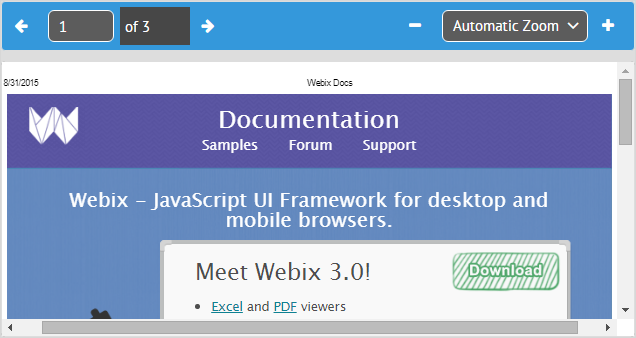
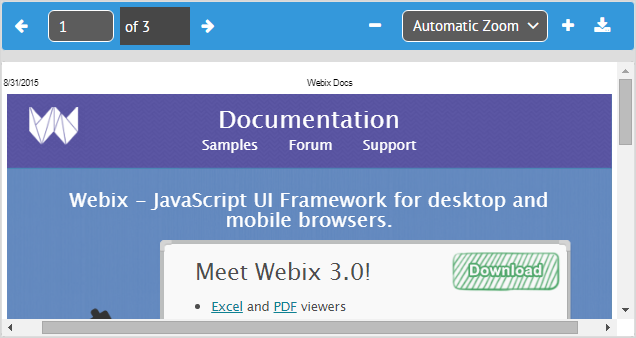
[update] whats new, binary proxy, excel datatype

Changed region(s): [[0.6274, 0.0296, 0.9858, 0.1479], [0.5676, 0.0592, 0.5975, 0.0888]]

diff --git a/data/desktop/excelviewer.md b/data/desktop/excelviewer.md
@@ -14,7 +14,7 @@ The constructor of the viewer is the following:
 	view:"excelviewer", 
     toolbar:"toolbar", 
     excelHeader:true, 
-    url:"files/data.xlsx"
+    url:"binary->files/data.xlsx"
 }
 ~~~
 
@@ -24,6 +24,9 @@ The configuration properties are:
 - **excelHeader** - (boolean) true to use the first row of the Excel table as a column header;
 - **url** - (string) the url of the excel file that should be displayed.
 
+**Binary** [proxy](desktop/server_proxy.md) is used for loading the file, which allows to get its contents as ArrayBuffer. 
+
+The default [datatype](desktop/data_types.md) for Excel Viewer is **excel**. It is strongly recommended not to change it manually to avoid parsing inconsistency.
 
 Excel viewer API
 -----------------
@@ -36,11 +39,34 @@ loads an excel file to the viewer
 parameters:
 
 - file - (string) the name of the file to load
+- datatype - (string)	data type (should be "excel" here)
 
 ~~~js
-$$("viewer").load("data.xlsx");
+$$("viewer").load("binary->data.xlsx", "excel");
 ~~~
 
+####parse()
+
+parses file data to the viewer
+
+parameters:
+
+- file -	(object) 	uploaded file object
+- datatype -	(string)	data type (should be "excel" here)
+
+~~~js
+ { view:"uploader", value:"Select Excel File", width:200,
+    on:{
+      onBeforeFileAdd:function(upload){
+         $$("excel").clearAll();
+         $$("excel").parse(upload.file, "excel");
+           return false;
+      }
+ 	}
+}
+~~~
+
+{{sample 60_pro/10_viewers/03_excel_upload.html }}
 
 ####showSheet()
 
@@ -51,10 +77,8 @@ parameters:
 - name - (string) the name of the sheet
 
 ~~~js
-$$("viewer").load("data.xlsx");
+$$("viewer").showSheet("Data");
 ~~~
-
-
 
 Excel toolbar and its API
 ----------------
@@ -72,7 +96,6 @@ In order to render such a toolbar, the dedicated **excelbar** view should be ini
 - **id** (string) - the id of the Excel toolbar.
 
 ###Excel toolbar API
-
 
 ####getInput() 
 
@@ -125,35 +148,54 @@ $$("toolbar").setValue(value);
 ~~~
 
 
-
 ##Loading data to Excel Viewer
 
-There are two possible ways of loading data to Excel viewer:
+There are three possible ways of loading data to Excel viewer:
 
-- directly in the viewer constructor by using the **url** parameter:
+- specifying the needed file directly in the viewer constructor by using the **url** parameter:
 
 ~~~js
 {
 	view:"excelviewer", 
-    url:"files/data.xlsx"
+    url:"binary->files/data.xlsx"
 }
 ~~~
 
-- using the **load** method with the viewer's id as a parameter
+- calling the **load** method with the file name as a parameter
 
 ~~~js
 { view:"excelviewer", id:"excel", editable:true, header:false },
 ...
-$$("excel").load(upload.file);
+$$("excel").load("binary->files/data.xlsx", "excel");
 ~~~
 
-{{sample 60_pro/10_viewers/03_excel_upload.html}}
+{{sample 60_pro/10_viewers/02_excel_viewer.html }}
 
+**Binary** [proxy](desktop/server_proxy.md) is used for loading the file, which allows to get its contents as ArrayBuffer.
+The datatype is "excel".
+
+- parsing uploaded file data with the help of **parse** method
+
+~~~js
+ { view:"uploader", value:"Select Excel File", width:200,
+    on:{
+      onBeforeFileAdd:function(upload){
+         $$("excel").clearAll();
+         $$("excel").parse(upload.file, "excel");
+           return false;
+      }
+ 	}
+}
+~~~
+
+{{sample 60_pro/10_viewers/03_excel_upload.html }}
+~~~
 
 ##Loading via the "excel" proxy object
 
-Excelviewer allows displaying Excel data in a datatable only. At the same time by means of using the "excel" [proxy object](desktop/server_proxy.md), 
-you can load data to any Webix data component ([list](desktop/list.md), [dataview](desktop/dataview.md), [chart](desktop/chart.md), etc). 
+Excelviewer allows displaying Excel data in a datatable only.  
+At the same time, you can load Excel files to any Webix data component ([list](desktop/list.md), [dataview](desktop/dataview.md), [chart](desktop/chart.md), etc)
+by using "binary" [proxy object](desktop/server_proxy.md) and specifying "excel" datatype. 
 
 This variant of loading allows customizing the presentation of the loaded data, such as displaying headers and controlling the number of the loaded rows.
 
@@ -161,20 +203,20 @@ This variant of loading allows customizing the presentation of the loaded data, 
 webix.ui({
   type:"space",
   cols:[
-  	{ view:"list", url:"excel->files/data.xlsx@Data[1-10]", width:320,
-    	template:"#data1#, #data2#", select:true },
-    { view:"datatable", autoConfig:true, url:"excel->files/data.xlsx@Files[1-]" }
+  	{ view:"list", url:"binary->files/data.xlsx@Data[1-10]", datatype:"excel",
+    	template:"#data1#, #data2#" },
+    { view:"datatable", autoConfig:true, url:"binary->files/data.xlsx@Files[1-]", datatype:"excel" }
   ]
 });
 ~~~
 
 The string value of the *url* property *excel->files/data.xlsx@Data[1-10]"* includes the following parts:
 
-- **excel** - the name of the proxy object
-- **files/data.xlsx** - link to the excel file
-- **@** - the delimiter that detaches the link from its parameters (can be omitted together with parameters)
-- **Data** - the name of the Excel sheet to render
-- **[1-10]** - the rows that should be rendered in the viewer
+- **binary** - the name of the proxy object
+- **files/data.xlsx** - path to the Excel file
+- **@** - optional, the delimiter that detaches the link from its parameters (can be omitted together with parameters)
+- **Data** - optional, the name of the Excel sheet to render
+- **[1-10]** - optional, the rows that should be rendered in the viewer
 
 To get more information about proxy objects read the desktop/server_proxy.md article.
 

diff --git a/data/desktop/pdfviewer.md b/data/desktop/pdfviewer.md
@@ -33,6 +33,17 @@ Configuration parameters are:
 	- **toolbar** (string) - the id of the related pdf toolbar;
 	- **url** (string) - the url of the pdf file to browse in the viewer.
     
+####Pdfbar structure    
+    
+Toolbar is supplied with the following fully functional controls: 
+
+- navigarion arrows (previous and next page);
+- current page label;
+- "all pages" label;
+- zoom in and out icons;
+- zoom mode selector;
+- download button.
+    
 If you need, you can use the viewer and the toolbar separately, by using their public API methods.
 
 
@@ -53,6 +64,31 @@ parameters:
 $$("pdfviewer").load(url);
 ~~~
 
+####parse()
+
+parses the contents of uploaded File or base64 string into the viewer:
+
+{{snippet
+Base64 string
+}}
+~~~js
+var base64data = ..decoded base64 data..;
+$$("pdf").parse({data:base64data});
+~~~
+
+{{snippet
+Uploaded file
+}}
+~~~js
+{view:"uploader", width:200, height:45, type:"form", value:"Choose a PDF file to upload", accept:"application/pdf", on:{
+	onBeforeFileAdd:function(upload){
+		$$("pdf").parse(upload.file);
+	return false;
+	}
+}}
+~~~
+
+{{sample 60_pro/10_viewers/05_pdf_upload.html }}
 
 ####nextPage()
 
@@ -61,7 +97,6 @@ renders the page that follows the viewed one
 ~~~js
 $$("pdfviewer").nextPage();
 ~~~
-
 
 ####prevPage()
 
@@ -128,6 +163,14 @@ zooms the viewed page out
 
 ~~~js
 $$("pdfviewer").zoomOut();
+~~~
+
+####download()
+
+downloads viewer contents as PDF file
+
+~~~js
+$$("pdfviewer").download();
 ~~~
 
 ###Events
@@ -220,8 +263,6 @@ parameters:
 $$("toolbar").setPage(2);
 ~~~
 
-
-
 ####setScale()
 
 sets a new value for the toolbar scale
@@ -276,5 +317,14 @@ parameters:
 ~~~js
 $$("toolbar").zoom("in");
 ~~~
+
+####download()
+
+applies downloading to the viewer to get its contents as PDF file
+
+~~~js
+$$("toolbar").download();
+~~~
+
 
 @edition:pro

diff --git a/data/desktop/data_types.md b/data/desktop/data_types.md
@@ -10,6 +10,25 @@ components.
 - **Data Drivers** that with processing lofic for each format are descriped in [Data Drivers](helpers/data_drivers.md);
 - **Customization of Data Types** by changing default Driver behavior - [Customizing Data Types](desktop/custom_data_types.md).  
 
+All in all, Webix supports the following data types: 
+
+- *json* - default
+- *xml* 
+- *jsarray* - plain JS array
+- *html* - parsing data from HTML markup
+- *csv* - comma separated values
+- *excel* - custom data type for parsing Exccel files
+
+~~~js
+webix.ui({
+	rows:[
+    	{ view:"list", data:json_data },
+    	{ view:"datatable", columns:[...], datatype:"xml", data:xml_data }
+    ]
+});
+
+~~~
+
 Data Type Samples
 -------------------
 
@@ -81,6 +100,26 @@ Samuel, Oregon, 32
 By default line anf field **delimiters** are "\n"(new line) and ","(comma) respectively. 
 
 To change the logic of CSV parsing for the application components, look up the [related article](desktop/custom_data_types.md#customizingcsvparsinglogic).
+
+###Excel
+
+Excel datatype presents a set of parsing rules for Excel files loaded as binary data: 
+
+~~~js
+{ view:"list", url:"binary->files/data.xlsx", datatype:"excel"}
+~~~
+
+Excel data will be parsed into a simple JS array (as with "jsarray" datatype).
+
+~~~js
+[
+	[ "Nanny", "Alabama", "45" ],
+	[ "Derek", "New-York", "23"],
+	[ "Samuel", "Oregon", "32"]
+]
+~~~
+
+Check [Excelviewer](desktop/excelviewer.md) documentation for details.
 
 ##Hierarchical Data {#hi}
 

diff --git a/data/desktop/server_proxy.md b/data/desktop/server_proxy.md
@@ -14,7 +14,8 @@ There's a list of ready-to-use Webix proxy objects that can be used by adding pr
 - **post** - for loading data in POST request (GET by default);
 - **sync** - for loading data via a synchronous Ajax request (by default, loading is performed by an asynchronous request);
 - **indexdb** - for working with [indexedDB](desktop/server_indexdb.md) in-browser database storage;
-- **faye** - for enabling live data update on all clients currently using the application. [Look here for details](desktop/server_faye.md).
+- **faye** - for enabling live data update on all clients currently using the application. [Look here for details](desktop/server_faye.md);
+- **binary** - for loading and reading files as arraybuffer.
 
 Prefixes are used before the path to you serverside script:
 

diff --git a/data/desktop/whats_new_3_2.md b/data/desktop/whats_new_3_2.md
@@ -27,6 +27,8 @@ Version 3.2
 - support for proxy and editable columns in [File Manager](desktop/file_manager.md)
 - "missed values" support in [Pivot Table](desktop/pivot.md)
 - [drag](api/link/ui.list_drag_config.md) order for [x-lists](desktop/xlist.md)
+- binary [proxy](desktop/server_proxy.md) for reading files as ArrayBuffer
+- excel [data driver](desktop/data_types.md) (and datatype) for parsing the contents of Excel files. Used in [Excelviewer](desktop/excelviewer.md) and [Spreadsheet](desktop/spreadsheet.md)
 
 
 ##Fixes

diff --git a/data/api/ajax_response.md b/data/api/ajax_response.md
@@ -19,6 +19,7 @@ webix.ajax().response("blob").get("patch.zip", function(text, data){
 
 Possible values to pass into this method are: 
 
-- "blob" - binary data object (fully supported)
+- "blob" - binary data object
+- "arraybuffer" - binary data object
 - "document" - web page object 
 

diff --git a/data/helpers/data_drivers.md b/data/helpers/data_drivers.md
@@ -1,13 +1,14 @@
 Data Drivers
 ============
 
-There are 5 default data drivers: 
+There are 6 default data drivers: 
 
 - *json*
 - *xml*
 - *html*
 - *csv*
 - *jsarray*
+- *excel*
 
 
 Customizing data driver
